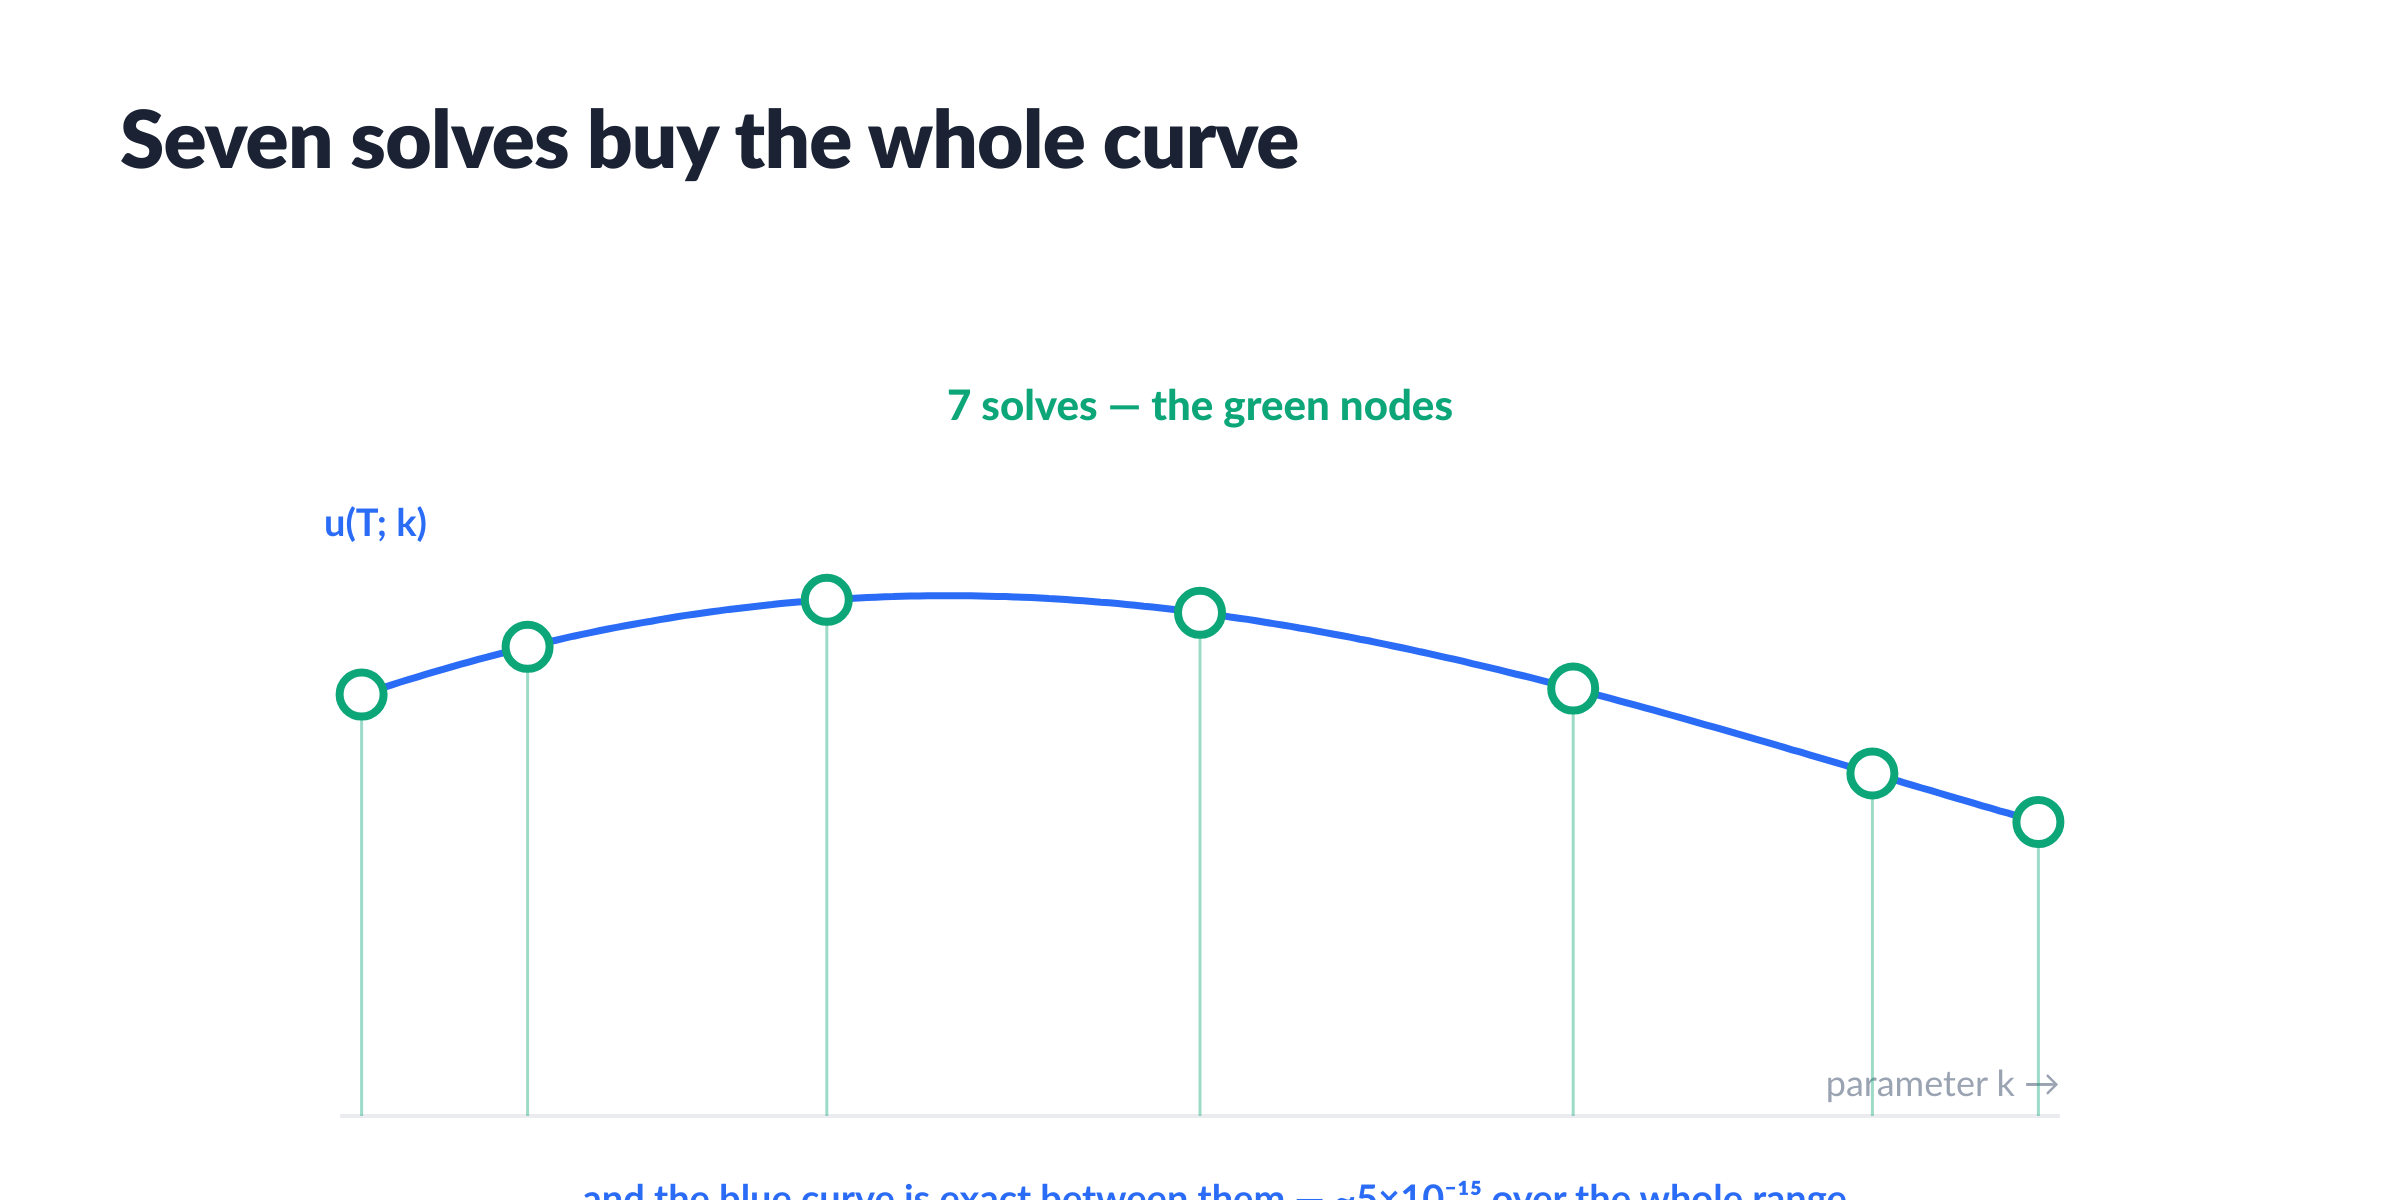
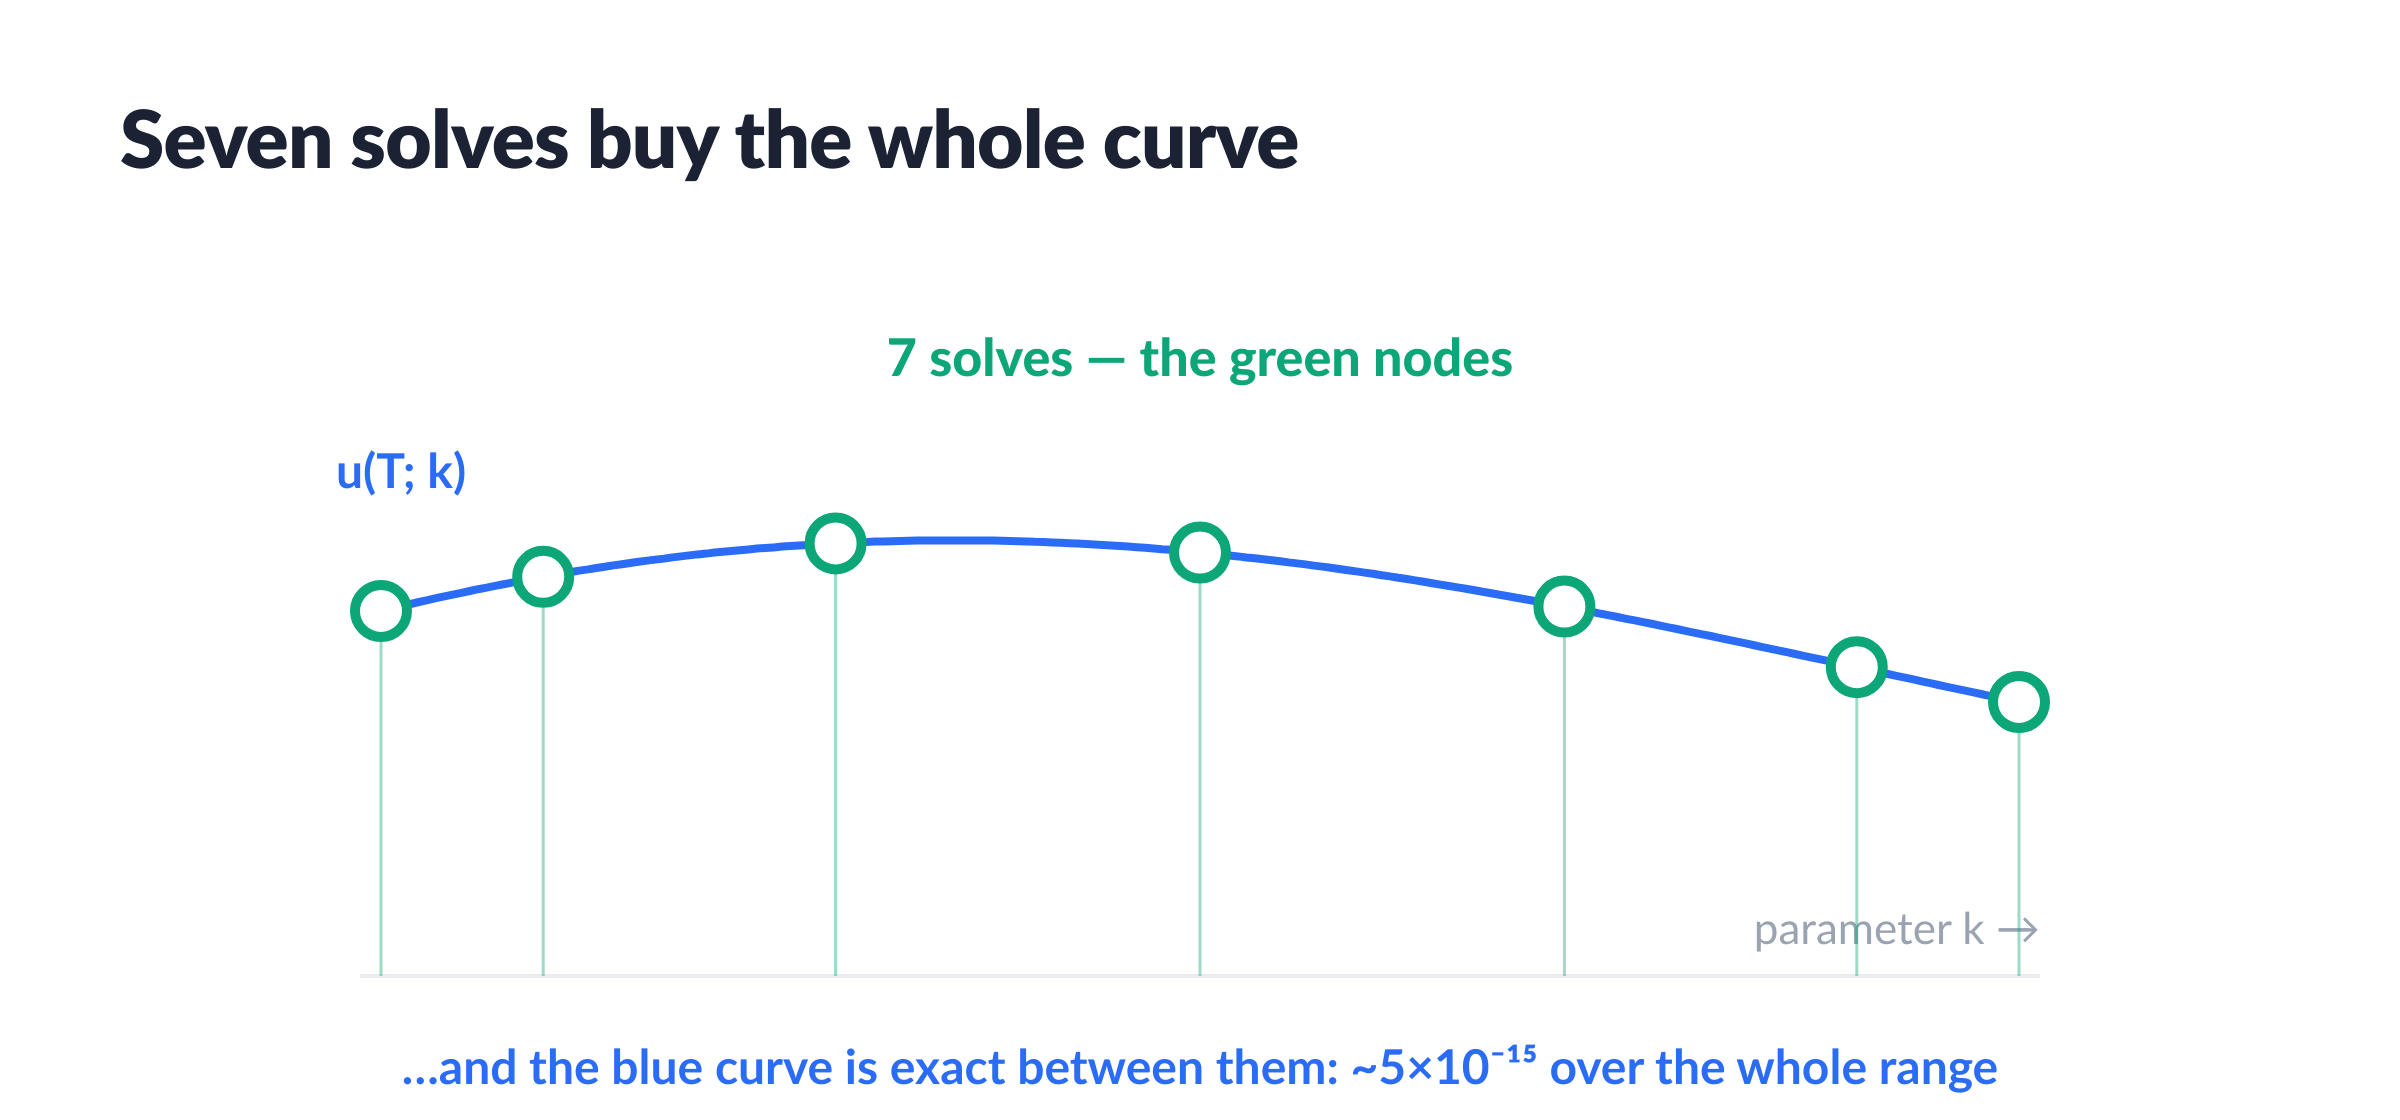
concept-seven: fit the bottom caption in frame, enlarge all labels for column reading

diff --git a/assets/concepts.py b/assets/concepts.py
@@ -77,40 +77,34 @@ def concept_price():
 # ══════════════════════════════════════════════════════════════════════════
 def concept_seven():
     W,H=1080,470
-    x0,x1=110,970; y0,ymid=120,300; amp=140
-    # the true curve u(T;k) — a smooth wave
-    pts=[]
-    for i in range(200):
-        t=i/199; x=x0+(x1-x0)*t
-        y=ymid-amp*math.sin(2.6*t+0.5)*math.exp(-0.4*t)
-        pts.append((x,y))
+    x0,x1=120,960; ymid=240; amp=100; axy=372
+    def fy(t): return ymid-amp*math.sin(2.6*t+0.5)*math.exp(-0.4*t)
+    pts=[(x0+(x1-x0)*i/199, fy(i/199)) for i in range(200)]
     path="M "+" L ".join(f"{x:.1f} {y:.1f}" for x,y in pts)
-    curve=f"<path d='{path}' fill='none' stroke='{BLUE}' stroke-width='3.5'/>"
-    # 7 Chebyshev nodes ON the curve
+    curve=f"<path d='{path}' fill='none' stroke='{BLUE}' stroke-width='4'/>"
     nodes=""
     for j in range(7):
         t=0.5-0.5*math.cos((2*j+1)*math.pi/14)   # chebyshev in [0,1]
-        x=x0+(x1-x0)*t
-        y=ymid-amp*math.sin(2.6*t+0.5)*math.exp(-0.4*t)
-        nodes+=(f"<line x1='{x:.1f}' y1='{y:.1f}' x2='{x:.1f}' y2='440' "
+        x=x0+(x1-x0)*t; y=fy(t)
+        nodes+=(f"<line x1='{x:.1f}' y1='{y:.1f}' x2='{x:.1f}' y2='{axy}' "
                 f"stroke='{GREEN}' stroke-width='1.5' opacity='.4'/>"
-                f"<circle cx='{x:.1f}' cy='{y:.1f}' r='11' fill='#fff' "
-                f"stroke='{GREEN}' stroke-width='4'/>")
-    axis=(f"<line x1='{x0}' y1='440' x2='{x1}' y2='440' stroke='{HAIR}' "
+                f"<circle cx='{x:.1f}' cy='{y:.1f}' r='13' fill='#fff' "
+                f"stroke='{GREEN}' stroke-width='5'/>")
+    axis=(f"<line x1='{x0}' y1='{axy}' x2='{x1}' y2='{axy}' stroke='{HAIR}' "
           f"stroke-width='2'/>"
-          f"<text x='{x1}' y='430' text-anchor='end' font-size='18' "
+          f"<text x='{x1}' y='{axy-16}' text-anchor='end' font-size='22' "
           f"fill='{FAINT}'>parameter k &rarr;</text>"
-          f"<text x='{x0-8}' y='150' font-size='19' font-weight='700' "
+          f"<text x='{x0-12}' y='128' font-size='24' font-weight='700' "
           f"fill='{BLUE}'>u(T; k)</text>")
-    label=(f"<text x='{(x0+x1)/2:.0f}' y='92' text-anchor='middle' font-size='21' "
+    label=(f"<text x='{(x0+x1)/2:.0f}' y='72' text-anchor='middle' font-size='26' "
            f"font-weight='800' fill='{GREEN}'>7 solves &mdash; the green nodes</text>"
-           f"<text x='{(x0+x1)/2:.0f}' y='488' text-anchor='middle' font-size='19' "
+           f"<text x='{(x0+x1)/2:.0f}' y='{axy+54}' text-anchor='middle' font-size='24' "
            f"font-weight='700' fill='{BLUE}'>&hellip;and the blue curve is exact "
-           f"between them &mdash; ~5&times;10&#8315;&#185;&#8309; over the whole range</text>")
-    svg=f"<svg width='{W}' height='510' viewBox='0 0 {W} 510'>{axis}{curve}{nodes}{label}</svg>"
+           f"between them: ~5&times;10&#8315;&#185;&#8309; over the whole range</text>")
+    svg=f"<svg width='{W}' height='{axy+74}' viewBox='0 0 {W} {axy+74}'>{axis}{curve}{nodes}{label}</svg>"
     inner=(f"<div class='title'>Seven solves buy the whole curve</div>"
-           f"<div style='margin-top:22px'>{svg}</div>")
-    return frame(inner,600)
+           f"<div style='margin-top:20px'>{svg}</div>")
+    return frame(inner,560)
 
 # ══════════════════════════════════════════════════════════════════════════
 # 3 — THE DIAL reads the family: 35 PDEs, almost all at Φ₁ = 1